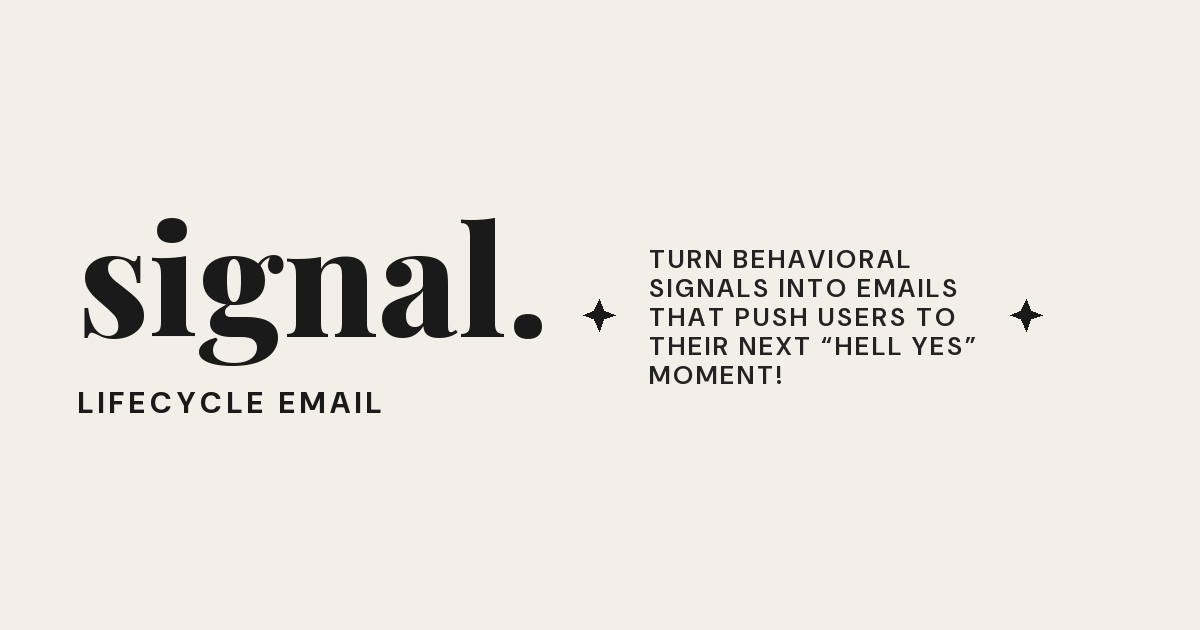
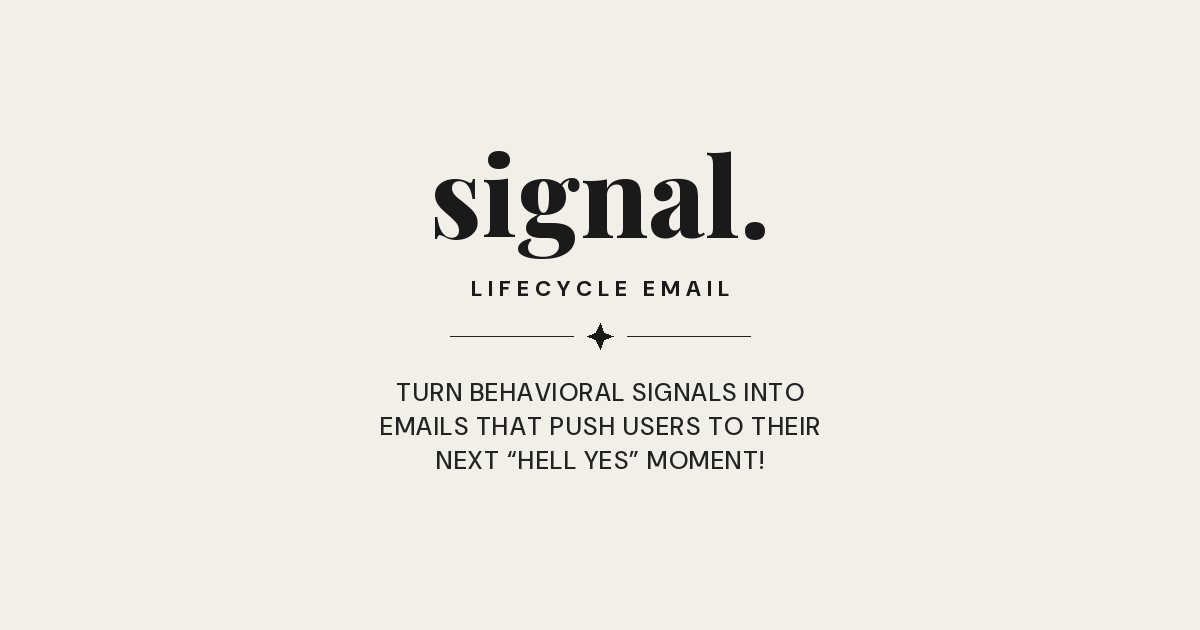
Recompose share card to survive square cropping
WhatsApp, Telegram and iMessage crop OG images to a centered square,
keeping only x=285..915 of the 1200x630 canvas. The wide left-to-right
split rendered as "nal." plus a chopped tagline in every chat app.

Recomposes as a centered stack (logo, kicker, sparkle divider, tagline)
constrained to the square safe zone, so the card reads correctly both
full-width on LinkedIn and cropped in chat apps. The tagline is rewrapped
to three lines to fit.

The script now asserts the safe zone and fails with the measured spans if
content escapes it, so this cannot regress silently on a future copy edit.

Note: the old card had the same wide split and cropped just as badly.
This was pre-existing, not introduced by the Playfair change.

Changed region(s): [[0.0617, 0.2413, 0.8017, 0.754], [0.8325, 0.4825, 0.8633, 0.5127]]

diff --git a/Signal-Page/scripts/make-og-image.py b/Signal-Page/scripts/make-og-image.py
@@ -8,10 +8,16 @@ the Google Fonts repo into scripts/.font-cache/ and reused after that.
 
 Why this exists: the logo must be Playfair Display on every surface per
 CLAUDE.md, and Playfair is far wider than a geometric sans at the same
-point size. The layout is therefore measurement-driven -- the logo is
-fitted to a target width and everything else is positioned off its
-measured bounding box, so editing the tagline below cannot silently
-push text into the sparkle divider.
+point size. The layout is therefore measurement-driven -- everything is
+positioned off measured bounding boxes, so editing the copy below cannot
+silently push text out of frame.
+
+IMPORTANT -- the safe zone. LinkedIn and Facebook show the full 1200x630,
+but WhatsApp, Telegram and iMessage crop to a centered SQUARE thumbnail,
+keeping only x=285..915 and discarding both edges. So the composition is
+centered and constrained to that square: a wide left-to-right split
+renders as unreadable fragments in every chat app. The script asserts
+this at the end and fails if content escapes the safe zone.
 
 Colors are literal brand hex values because image files cannot use the
 CSS tokens (CLAUDE.md rule 7). Keep them in sync with index.css.
@@ -30,17 +36,18 @@ MUTED = "#232323"     # --primary
 LOGO = "signal."
 KICKER = "LIFECYCLE EMAIL"
 TAGLINE = [
-    "TURN BEHAVIORAL",
-    "SIGNALS INTO EMAILS",
-    "THAT PUSH USERS TO",
-    "THEIR NEXT “HELL YES”",
-    "MOMENT!",
+    "TURN BEHAVIORAL SIGNALS INTO",
+    "EMAILS THAT PUSH USERS TO THEIR",
+    "NEXT “HELL YES” MOMENT!",
 ]
 
 # --- Canvas ---
 W, H = 1200, 630      # standard OG dimensions; don't change casually
-MARGIN_X = 78
-LOGO_TARGET_W = 470   # keeps the logo clear of the tagline column
+LOGO_TARGET_W = 340   # must leave room inside the safe zone
+
+# Chat apps crop to a centered square. Content must stay inside it.
+SAFE_W = H            # 630px wide, centered
+SAFE_PAD = 24         # breathing room inside the crop edge
 
 HERE = os.path.dirname(os.path.abspath(__file__))
 CACHE = os.path.join(HERE, ".font-cache")
@@ -107,56 +114,76 @@ def fit_logo(d, target_w):
     return f, size
 
 
+def draw_centered(d, cx, y, text, f, fill, tracking):
+    """Draw tracked text horizontally centered on cx. Returns (left, right)."""
+    w = tracked_width(d, text, f, tracking)
+    x = cx - w / 2
+    draw_tracked(d, (x, y), text, f, fill, tracking)
+    return x, x + w
+
+
 def main():
     img = Image.new("RGB", (W, H), BG)
     d = ImageDraw.Draw(img)
+    cx = W / 2
 
     logo_f, size = fit_logo(d, LOGO_TARGET_W)
-    kicker_f = font("dmsans.ttf", 30, 700, 40)
-    kicker_track = 5.0
-    gap = 26  # between logo descender and kicker cap
+    kicker_f = font("dmsans.ttf", 22, 700, 40)
+    tag_f = font("dmsans.ttf", 25, 500, 40)
+    kicker_track, tag_track = 6.0, 1.5
+    line_h = 34
 
-    # Measure the left block so it can be centered as a unit.
+    # Measure every row first so the whole stack can be centered as a unit.
     lx0, ly0, lx1, ly1 = d.textbbox((0, 0), LOGO, font=logo_f)
-    kx0, ky0, _, ky1 = d.textbbox((0, 0), KICKER, font=kicker_f)
-    block_h = (ly1 - ly0) + gap + (ky1 - ky0)
-    block_top = (H - block_h) / 2
+    _, ky0, _, ky1 = d.textbbox((0, 0), KICKER, font=kicker_f)
+    logo_h, kicker_h = ly1 - ly0, ky1 - ky0
 
-    # Offset by the bbox origin so ink lands where intended.
-    d.text((MARGIN_X - lx0, block_top - ly0), LOGO, font=logo_f, fill=INK)
-    logo_right = MARGIN_X + (lx1 - lx0)
+    gap_logo_kicker = 22
+    gap_kicker_rule = 40
+    gap_rule_tag = 40
+    tag_h = line_h * len(TAGLINE)
 
-    kicker_y = block_top + (ly1 - ly0) + gap - ky0
-    draw_tracked(d, (MARGIN_X, kicker_y), KICKER, kicker_f, INK, kicker_track)
+    stack_h = logo_h + gap_logo_kicker + kicker_h + gap_kicker_rule + gap_rule_tag + tag_h
+    y = (H - stack_h) / 2
 
-    # Tagline block, centered on the same axis as the left block.
-    tag_f = font("dmsans.ttf", 26, 600, 40)
-    tag_track, line_h = 3.0, 29
-    tag_w = max(tracked_width(d, l, tag_f, tag_track) for l in TAGLINE)
+    # Logo, offset by its bbox origin so the ink lands where intended.
+    d.text((cx - (lx1 - lx0) / 2 - lx0, y - ly0), LOGO, font=logo_f, fill=INK)
+    logo_l, logo_r = cx - (lx1 - lx0) / 2, cx + (lx1 - lx0) / 2
+    y += logo_h + gap_logo_kicker
 
-    sp_r, sp_gap = 16, 34
-    tag_x = logo_right + sp_gap + sp_r * 2 + sp_gap
-    tag_block_h = line_h * len(TAGLINE)
-    tag_y = (H - tag_block_h) / 2
+    kick_l, kick_r = draw_centered(d, cx, y - ky0, KICKER, kicker_f, INK, kicker_track)
+    y += kicker_h + gap_kicker_rule
 
-    for i, line in enumerate(TAGLINE):
-        draw_tracked(d, (tag_x, tag_y + i * line_h), line, tag_f, MUTED, tag_track)
+    # Sparkle divider: a hairline rule with a sparkle centered on it.
+    sp_r = 13
+    rule_half = 150
+    d.line([(cx - rule_half, y), (cx - sp_r - 14, y)], fill=MUTED, width=1)
+    d.line([(cx + sp_r + 14, y), (cx + rule_half, y)], fill=MUTED, width=1)
+    sparkle(d, cx, y, sp_r, INK)
+    y += gap_rule_tag
 
-    mid_y = tag_y + tag_block_h / 2
-    sparkle(d, logo_right + sp_gap + sp_r, mid_y, sp_r, INK)
-    sparkle(d, tag_x + tag_w + sp_gap + sp_r, mid_y, sp_r, INK)
+    tag_edges = [
+        draw_centered(d, cx, y + i * line_h, line, tag_f, MUTED, tag_track)
+        for i, line in enumerate(TAGLINE)
+    ]
 
-    right_edge = tag_x + tag_w + sp_gap + sp_r * 2
-    if right_edge > W - 20:
+    # --- Safe-zone assertion: everything must survive a centered square crop ---
+    left = min([logo_l, kick_l, cx - rule_half] + [e[0] for e in tag_edges])
+    right = max([logo_r, kick_r, cx + rule_half] + [e[1] for e in tag_edges])
+    safe_l, safe_r = (W - SAFE_W) / 2 + SAFE_PAD, (W + SAFE_W) / 2 - SAFE_PAD
+    if left < safe_l or right > safe_r:
         raise SystemExit(
-            f"Tagline overflows the canvas (right edge {right_edge:.0f} of {W}). "
-            "Shorten a line or reduce LOGO_TARGET_W."
+            f"Content escapes the square-crop safe zone.\n"
+            f"  content: {left:.0f}..{right:.0f}\n"
+            f"  safe:    {safe_l:.0f}..{safe_r:.0f}\n"
+            "Shorten a tagline line or reduce LOGO_TARGET_W."
         )
 
     out = os.path.normpath(OUT)
     img.save(out)
-    print(f"Logo fitted at {size}px, x:{MARGIN_X}-{logo_right:.0f}")
-    print(f"Tagline right edge: {right_edge:.0f} of {W}")
+    print(f"Logo fitted at {size}px")
+    print(f"Content spans {left:.0f}..{right:.0f}  (safe zone {safe_l:.0f}..{safe_r:.0f}) OK")
+    print(f"Stack height {stack_h:.0f} of {H}")
     print(f"Wrote {out}")
 
 
